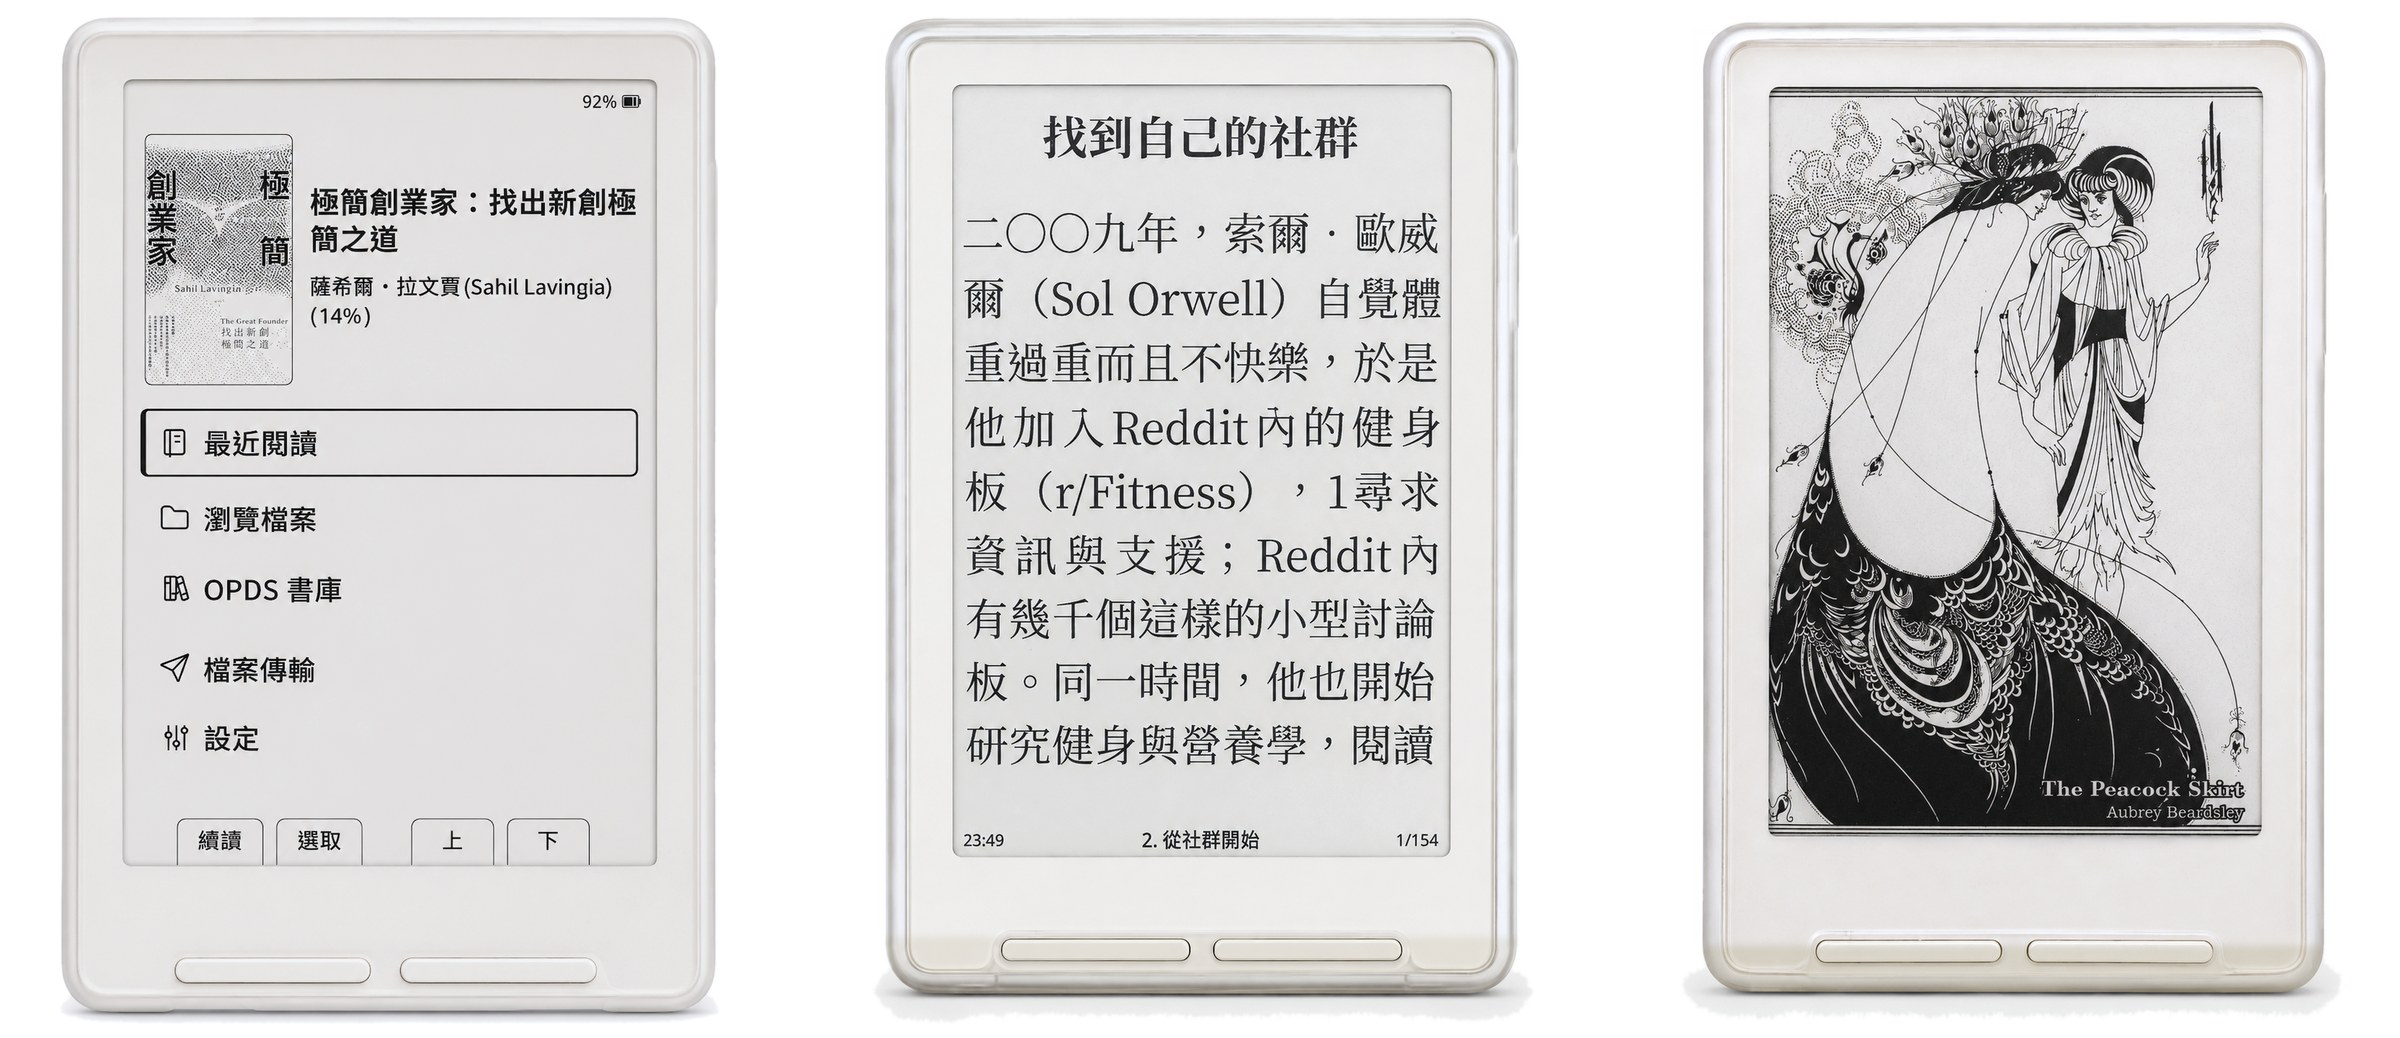
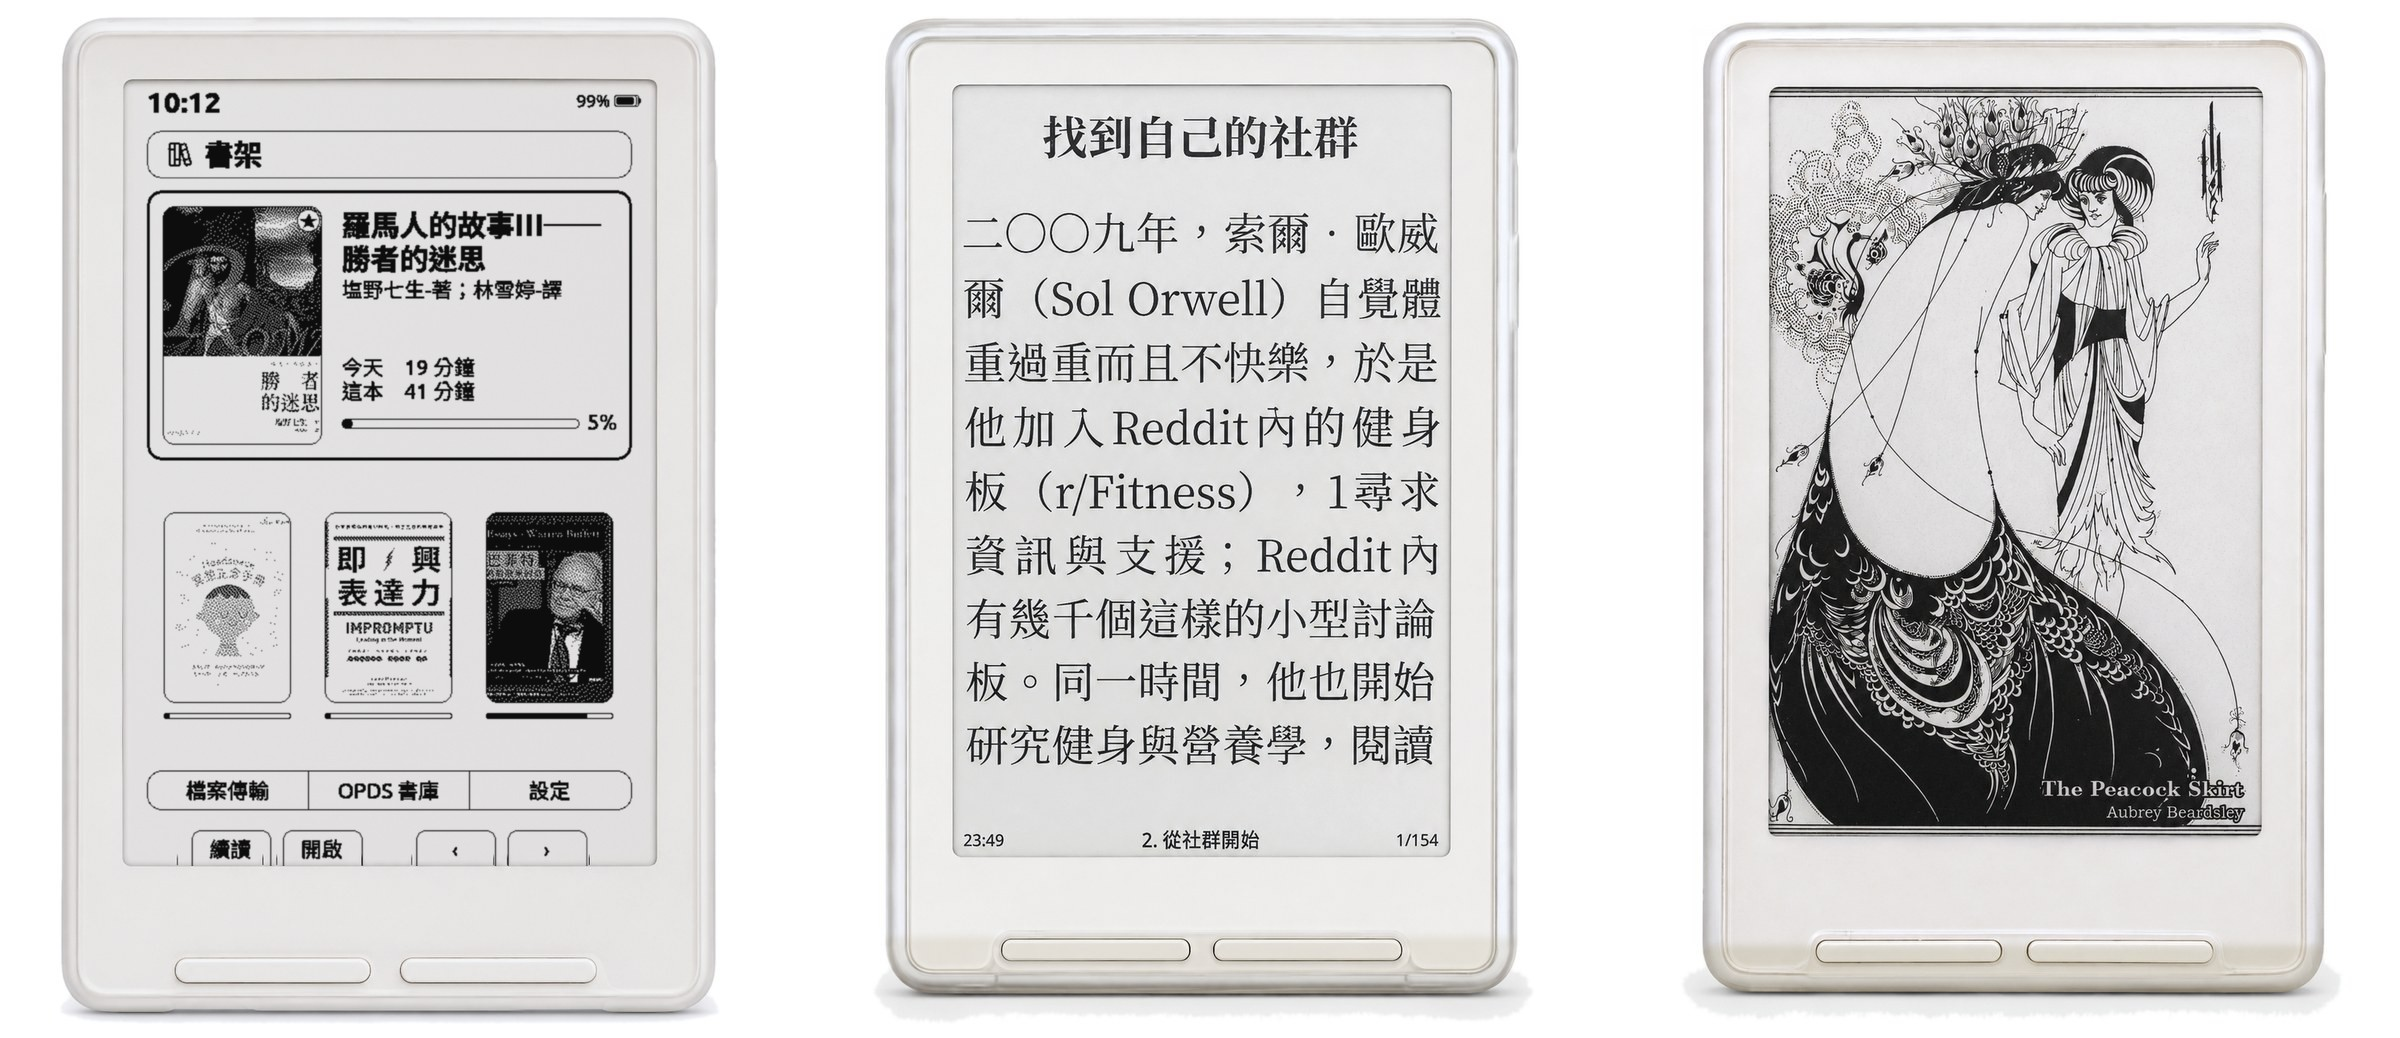
首屏照片：左邊那台換成 Formosa Cover 書架首頁（截圖合成），說明改為「螢幕畫面為模擬顯示」

Changed region(s): [[0.0312, 0.0925, 0.2812, 0.8324], [0.25, 0.0925, 0.2812, 0.1233]]

diff --git a/docs/index.html b/docs/index.html
@@ -172,8 +172,8 @@
     <a href="#install">怎麼安裝</a>
     <a href="#faq">常見問題</a>
   </nav>
-  <div class="devices"><img src="promo/hero-photo.jpg" alt="CrossMosa 實機：全繁中主畫面、明體內文、名畫待機"></div>
-  <p class="note">實際拍攝。</p>
+  <div class="devices"><img src="promo/hero-photo.jpg" alt="CrossMosa：書架首頁、明體內文、名畫待機"></div>
+  <p class="note">螢幕畫面為模擬顯示。</p>
 </header>
 
 <section id="covers">

diff --git a/README.md b/README.md
@@ -15,7 +15,7 @@
 免費開源・機器免接電腦<br>
 觸控的 X4 Pro 不適用。
 
-![CrossMosa 實機：全繁中主畫面、明體內文、名畫待機](docs/promo/hero-photo.jpg)
+![CrossMosa：書架首頁、明體內文、名畫待機](docs/promo/hero-photo.jpg)
 
 ## 想讀的書，一眼就找到
 
@@ -257,7 +257,7 @@ Reading time is short enough. It shouldn't go to fighting the device.
 Free and open source · No computer connection needed<br>
 Not for the touchscreen X4 Pro.
 
-![CrossMosa on real hardware: a Traditional Chinese home screen, serif body text, and a painting on the sleep screen](docs/promo/hero-photo.jpg)
+![CrossMosa: a bookshelf home screen, serif body text, and a painting on the sleep screen](docs/promo/hero-photo.jpg)
 
 ## Find the book you want, at a glance
 
